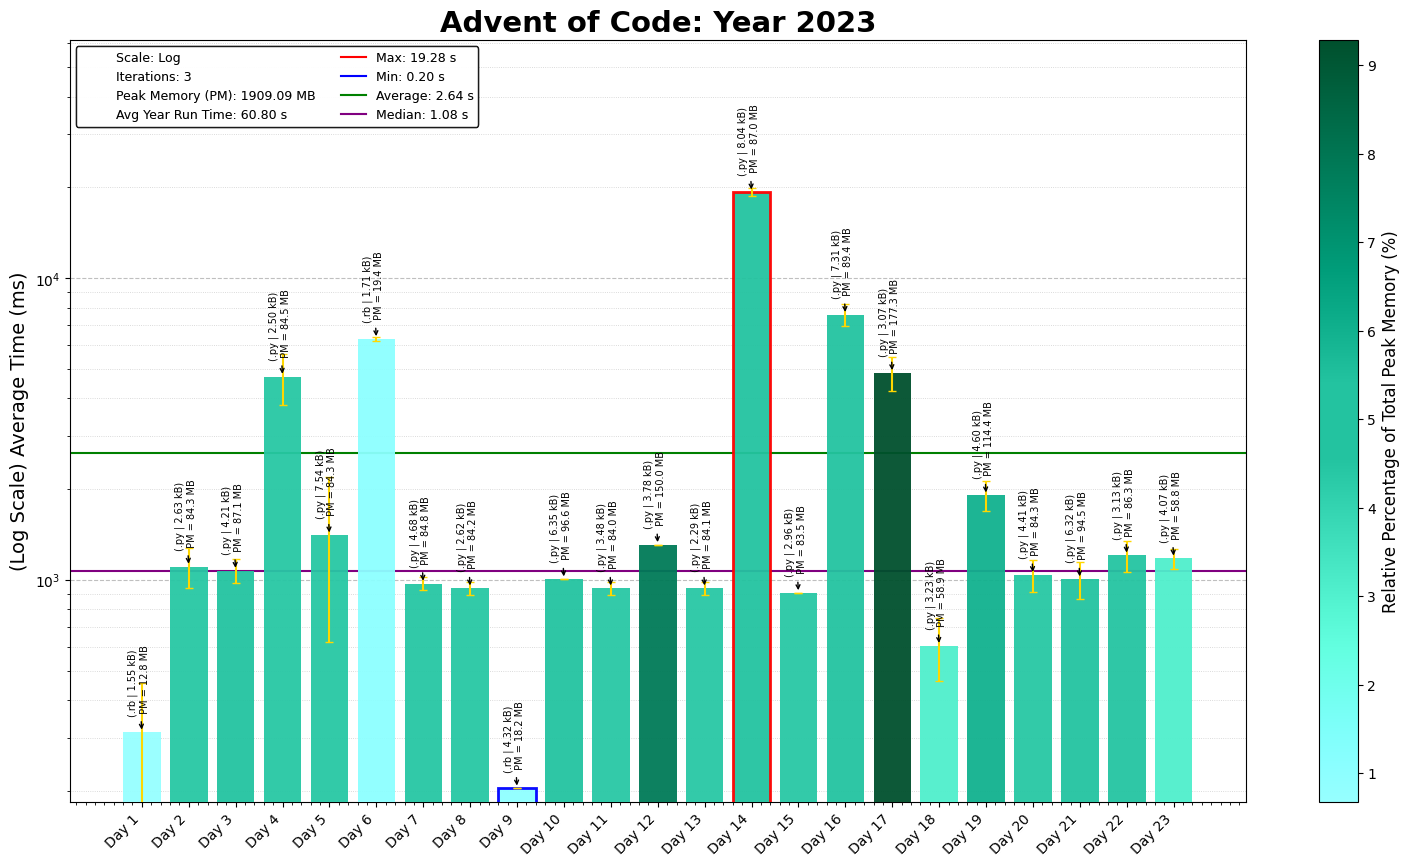
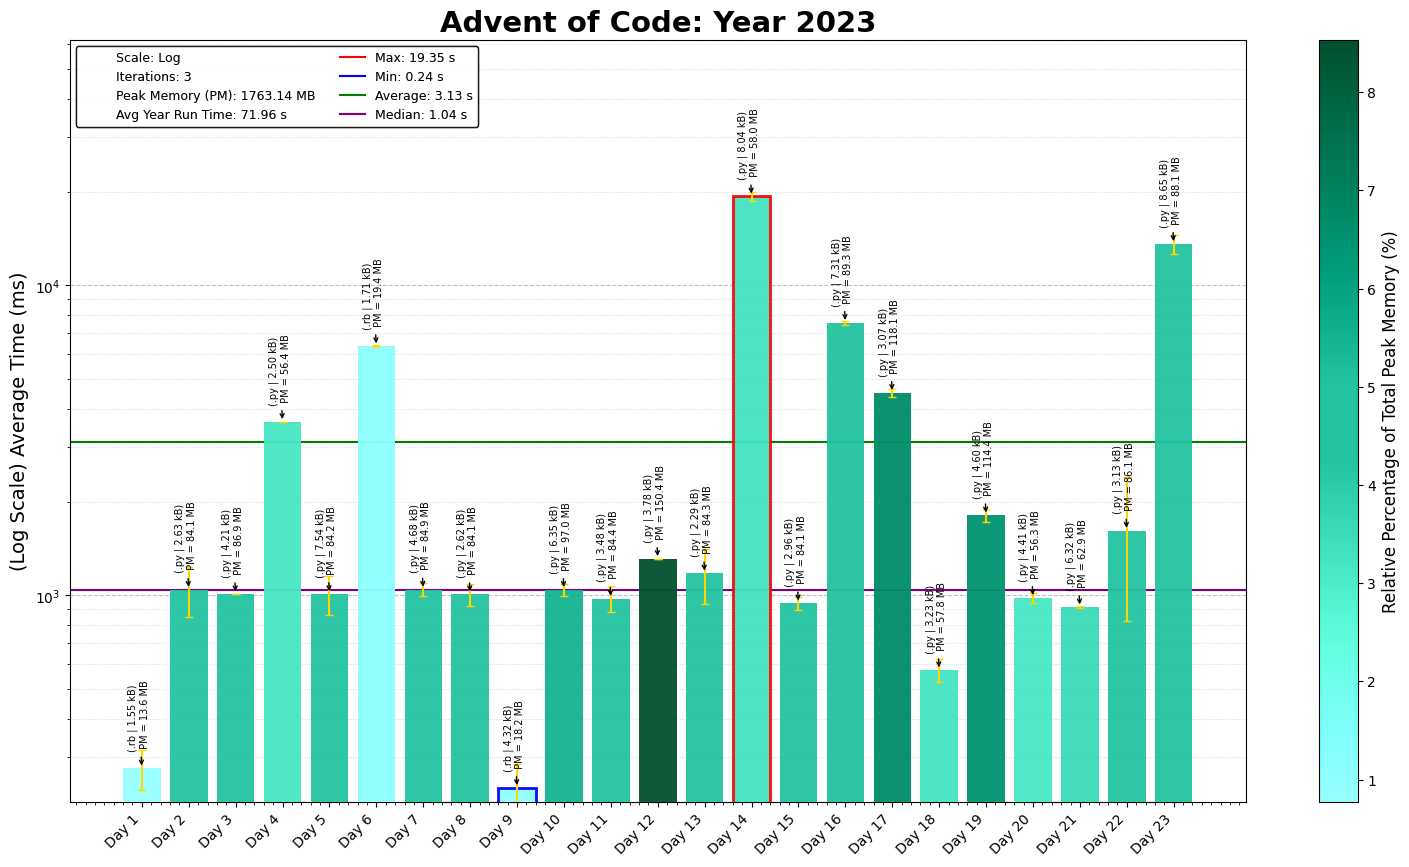
2023 Day 23 P2

diff --git a/2023/23/2023Day23.py b/2023/23/2023Day23.py
@@ -2,7 +2,7 @@
 Solution Started: Jan 13, 2025
 Puzzle Link: https://adventofcode.com/2023/day/23
 Solution by: abbasmoosajee07
-Brief: [Find Longest Path]
+Brief: [Find Longest Path, Maze Method]
 """
 
 #!/usr/bin/env python3
@@ -12,6 +12,7 @@ import numpy as np
 import pandas as pd
 import matplotlib.pyplot as plt
 sys.setrecursionlimit(10**7)
+from collections import defaultdict
 start_time = time.time()
 
 # Load the input data from the specified file path
@@ -105,7 +106,7 @@ def find_path_avoid_slopes(grid_dict: dict, start: tuple, goal: tuple) -> dict:
     dfs(start, {start: 'S'})  # Start DFS with the initial position
     return longest_path
 
-def find_longest_path(grid_dict: dict, start: tuple, goal: tuple) -> dict:
+def find_longest_path_og(grid_dict: dict, start: tuple, goal: tuple) -> dict:
     def get_neighbors(init_pos: tuple):
         """Generate all valid neighboring positions based on slope logic."""
         if init_pos in neighbors_cache:
@@ -148,17 +149,65 @@ def find_longest_path(grid_dict: dict, start: tuple, goal: tuple) -> dict:
     # Convert the longest path back to a dictionary format
     return {pos: 'O' for pos, dir_char in longest_path}
 
-test_input = ['#.#####################', '#.......#########...###', '#######.#########.#.###', '###.....#.>.>.###.#.###', '###v#####.#v#.###.#.###', '###.>...#.#.#.....#...#', '###v###.#.#.#########.#', '###...#.#.#.......#...#', '#####.#.#.#######.#.###', '#.....#.#.#.......#...#', '#.#####.#.#.#########v#', '#.#...#...#...###...>.#', '#.#.#v#######v###.###v#', '#...#.>.#...>.>.#.###.#', '#####v#.#.###v#.#.###.#', '#.....#...#...#.#.#...#', '#.#########.###.#.#.###', '#...###...#...#...#.###', '###.###.#.###v#####v###', '#...#...#.#.>.>.#.>.###', '#.###.###.#.###.#.#v###', '#.....###...###...#...#', '#####################.#']
+
+def longest_path(grid_dict, start, target):
+    # create graph where the nodes are the intersections of the grid
+    DIRECTIONS = {'^': (-1, 0), '>': (0, 1), 'v': (1, 0), '<': (0, -1)}
+    graph = defaultdict(list)
+    queue = [(start, start, {start, (0, 1)})]
+    while queue:
+        curr_node, prev_node, visited = queue.pop()
+        if curr_node == target:
+            final_node = prev_node
+            final_steps = len(visited)-1
+            continue
+
+        (x, y) = curr_node
+        neighbors = []
+        for dx, dy in DIRECTIONS.values():
+            pos = (x + dx, y + dy)
+            if pos not in visited and pos in grid_dict.keys() and grid_dict[pos] != '#':
+                neighbors.append(pos)
+
+        if len(neighbors) == 1:                                 # neither intersection nor dead end
+            nxt_xy = neighbors.pop()
+            queue.append((nxt_xy, prev_node, visited|{nxt_xy}))
+
+        elif len(neighbors) > 1:                                # found an intersection ( node)
+            steps = len(visited) - 1
+            if (curr_node, steps) in graph[prev_node]:            # already been here
+                continue
+            graph[prev_node].append((curr_node, steps))
+            graph[curr_node].append((prev_node, steps))
+            while neighbors:                                    # start new paths from current node
+                nxt_xy = neighbors.pop()
+                queue.append((nxt_xy, curr_node, {curr_node, nxt_xy}))
+
+    # traverse graph
+    max_steps = 0
+    queue = [(start, 0, {start})]
+    while queue:
+        curr, steps, visited = queue.pop()
+        if curr == final_node:
+            max_steps = max(steps, max_steps)
+            continue
+        for nxt, distance in graph[curr]:
+            if nxt not in visited:
+                queue.append((nxt, steps+distance, visited|{nxt}))
+
+    return max_steps + final_steps
 
 grid_dict, start, goal = parse_grid(input_data)
 
 path_p1 = find_path_avoid_slopes(grid_dict, start, goal)
-print('Path 1:', len(path_p1) - 1)
-print_grid(grid_dict, path_p1)
+print('Part 1:', len(path_p1) - 1)
+# print_grid(grid_dict, path_p1)
 
-# path_p2 = find_longest_path(grid_dict, start, goal)
-print('Path 2:', len(path_p2) - 1)
+# path_p2 = find_longest_path_og(grid_dict, start, goal)
+# print('Path 2:', len(path_p2) - 1)
 # print_grid(grid_dict, path_p2)
 
+path_p2_len = longest_path(grid_dict, start, goal)
+print("Part 2:", path_p2_len)
 
-print(f"Execution Time = {time.time() - start_time:.5f}")
+# print(f"Execution Time = {time.time() - start_time:.5f}")
